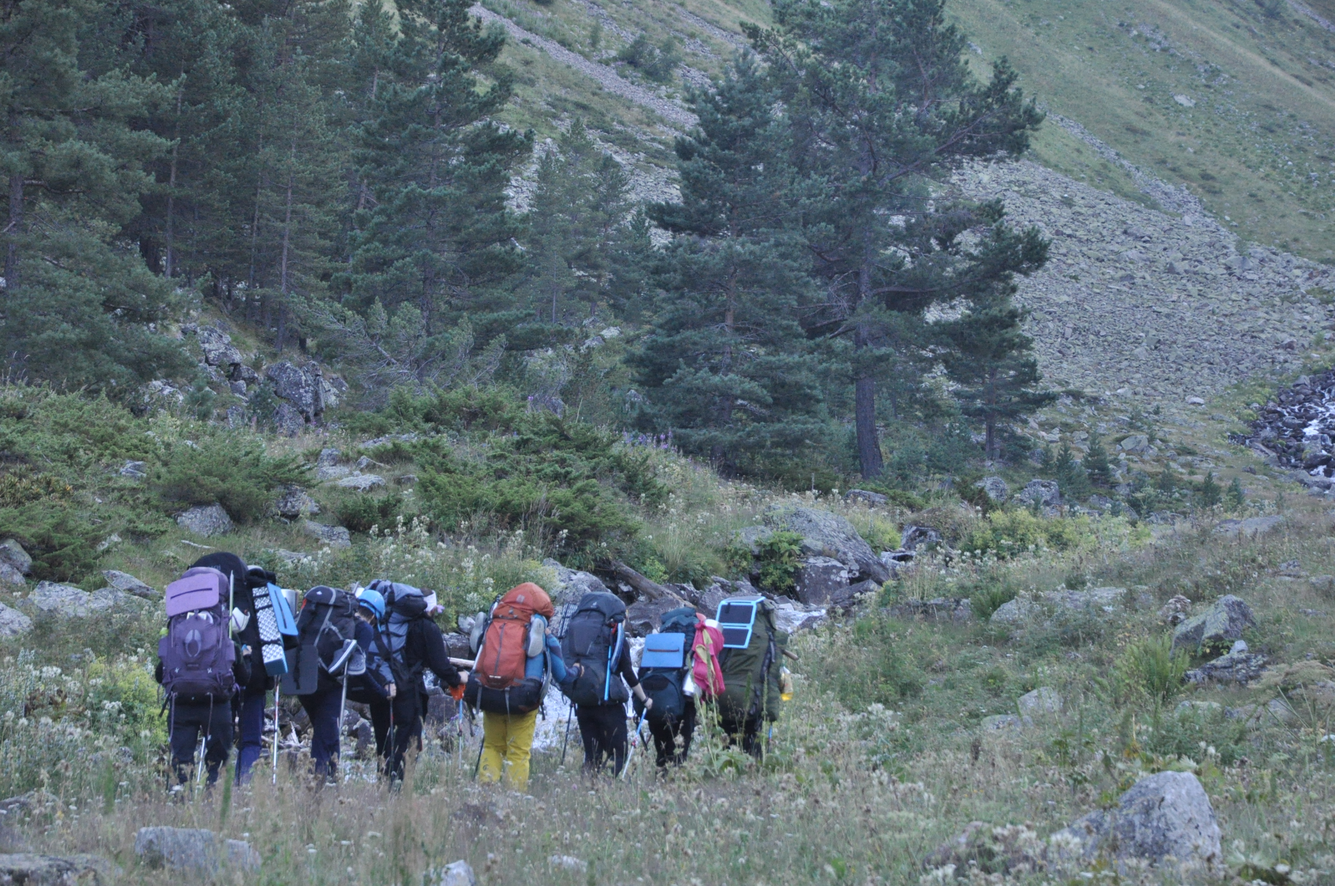
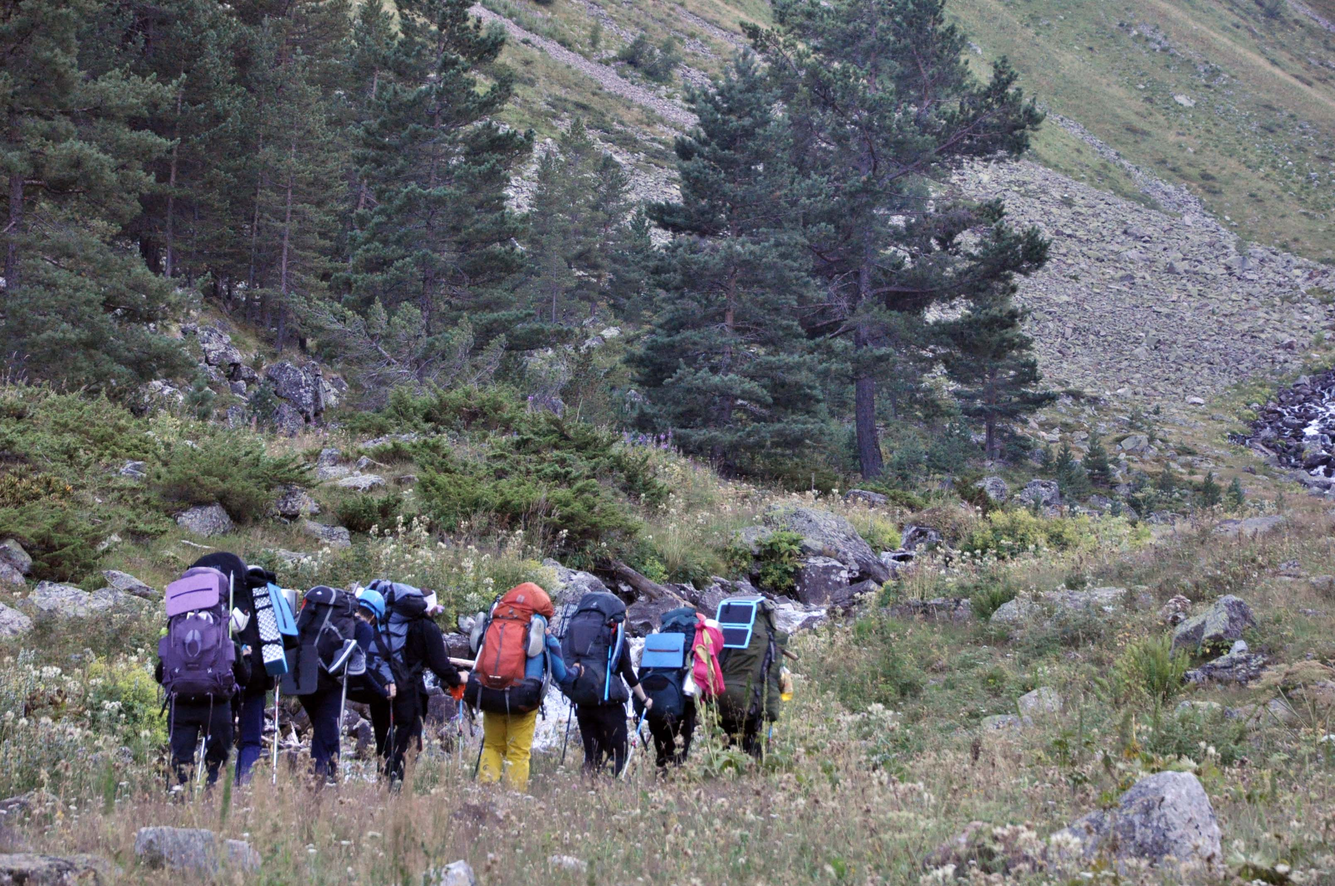
lol

diff --git a/latex-presentation/main.tex b/latex-presentation/main.tex
@@ -158,7 +158,7 @@
 
 \title[1 к.с. Гвандра 2024]{Рассказ о горном спортивном походе 1~к.с. по Западному Кавказу (Гвандра)} % The short title in the optional parameter appears at the bottom of every slide, the full title in the main parameter is only on the title page
 
-\subtitle{чё-нить мемное сюды} % Presentation subtitle, remove this command if a subtitle isn't required
+\subtitle{<<Делаем выводы. Или ноги>>} % Presentation subtitle, remove this command if a subtitle isn't required
 
 \author[Снеговская Даша]{Снеговская Даша} % Presenter name(s), the optional parameter can contain a shortened version to appear on the bottom of every slide, while the main parameter will appear on the title slide
 
@@ -274,7 +274,7 @@
 		\item Дёшево и быстро ехать
 		\item Красиво и разнообразно
 		\item Посмотреть Эльбрус
-		\item Скатать у Королlove
+		\item Скатать у Андрея Королёва
 	\end{itemize}
 	\textbf{Идея похода}~--- пройти чисто, при условии, что группа новичковая
 	\end{frame}

diff --git a/latex-presentation/19.tex b/latex-presentation/19.tex
@@ -97,14 +97,14 @@
 	\frametitle{Ночные посиделки}
 	\framesubtitle{День 2, 19 августа}
 	\centering
-	\includegraphics[width=\linewidth]{../pics/IMG_20240819_205705}
+	\includegraphics[width=0.85\linewidth]{../pics/IMG_20240819_205705}
 	\end{frame}
 
 \begin{frame}
 	\frametitle{Ночные посиделки}
 	\framesubtitle{День 2, 19 августа}
 	\centering
-	\includegraphics[width=\linewidth]{../pics/IMG_20240819_204810}
+	\includegraphics[width=0.85\linewidth]{../pics/IMG_20240819_204810}
 	\end{frame}
 
 \begin{frame}

diff --git a/latex-presentation/results.tex b/latex-presentation/results.tex
@@ -7,7 +7,6 @@
 		\item<+-> Получился такой высотный график:
 		\item<+-> Граммовка раскладки~--- в среднем \textbf{500} граммов на человека в день
 		\item<+-> Продолбано \textbf{6} участников из 12
-		\item<+->Средний расход аптечки:
 	\end{itemize}
 	
 	\only<2>{

diff --git a/latex-presentation/28.tex b/latex-presentation/28.tex
@@ -38,7 +38,7 @@
 	\framesubtitle{День 11, 28 августа}	
 	\footnotesize Именно эти ступени мы обходили через пер. Перемётный
 	\centering
-	\includegraphics[width=\textwidth]{../pics/DSC_0459 2}			
+	\includegraphics[width=0.95\textwidth]{../pics/DSC_0459 2}			
 \end{frame}
 
 \begin{frame}

diff --git a/latex-presentation/23.tex b/latex-presentation/23.tex
@@ -113,7 +113,7 @@
 	\frametitle{Панорама с пупырём на следующее утро}
 	\framesubtitle{День 6, 23 августа}
 	\centering
-	\includegraphics[width=\textwidth]{../pics/IMG_20240824_084142}			
+	\includegraphics[width=0.85\textwidth]{../pics/IMG_20240824_084142}			
 \end{frame}
 
 \begin{frame}

diff --git a/latex-presentation/22.tex b/latex-presentation/22.tex
@@ -28,7 +28,7 @@
 	\framesubtitle{День 5, 22 августа}
 	\footnotesize«Джалпак къол»~--- «Плоское ущелье»
 	\centering
-	\includegraphics[width=0.9\textwidth]{../pics/IMG_20240822_101607}			
+	\includegraphics[width=0.85\textwidth]{../pics/IMG_20240822_101607}			
 \end{frame}
 
 \begin{frame}

diff --git a/latex-presentation/18.tex b/latex-presentation/18.tex
@@ -93,7 +93,7 @@
 	\frametitle{д.р. Кичкинакол Уллукёльский}
 	\framesubtitle{День 1, 18 августа}
 	\centering
-	\rotatebox{90}{\includegraphics[width=0.7\linewidth]{../pics/DSC_0563}}
+	\rotatebox{90}{\includegraphics[width=0.67\linewidth]{../pics/DSC_0563}}
 \end{frame}
 
 \begin{frame}
